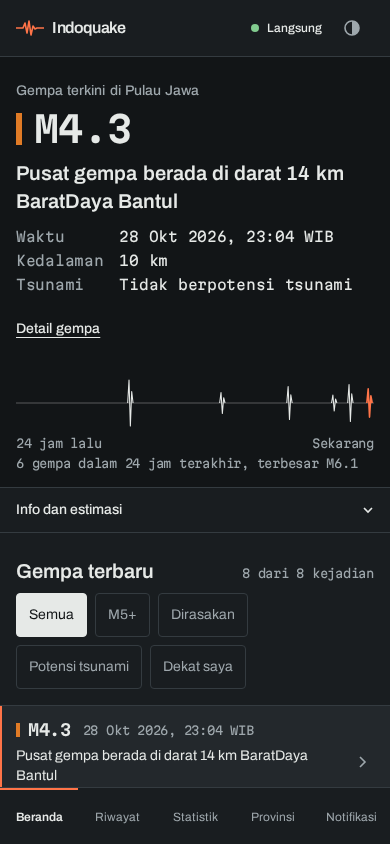
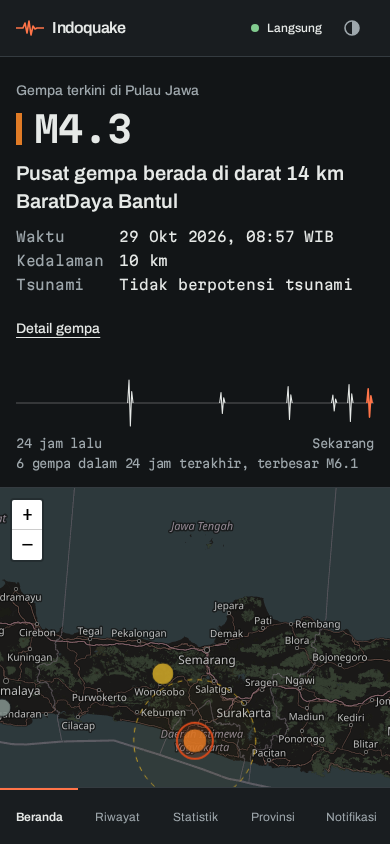
fix(web): phones show the map right after the latest quake and above the list; loading skeleton holds the latest-quake height (CLS <= 0.05) and the first list load no longer scrolls the page; e2e E16 at 390x844

diff --git a/apps/web/src/components/dashboard.tsx b/apps/web/src/components/dashboard.tsx
@@ -331,19 +331,25 @@ export function Dashboard({
     pulseKey,
   };
 
+  // Phones read the latest quake, then the map, then the list. Desktop: latest quake and list in the
+  // left column, the map sticky on the right across both rows.
   return (
-    <div className="mx-auto w-full max-w-screen-2xl lg:grid lg:grid-cols-[minmax(0,32rem)_minmax(0,1fr)]">
+    <div className="mx-auto w-full max-w-screen-2xl lg:grid lg:grid-cols-[minmax(0,32rem)_minmax(0,1fr)] lg:grid-rows-[auto_1fr]">
       <p aria-live="polite" role="status" className="sr-only" data-testid="live-announcer">
         {announcement}
       </p>
       <EventToasts items={toasts} onSelect={selectFromMap} />
-      <div className="min-w-0 lg:border-r lg:border-border">
+      <div className="min-w-0 lg:col-start-1 lg:row-start-1 lg:border-r lg:border-border">
         {listError && events.length === 0 && (
           <div className="px-4 pt-6">
             <ErrorState onRetry={refetch} />
           </div>
         )}
-        <LatestQuake event={events[0] ?? null} events={events} />
+        <LatestQuake
+          event={events[0] ?? null}
+          events={events}
+          loading={dataError && events.length === 0 && !listError}
+        />
         {tsunamiInfo?.status === "potential" && selectedEvent && (
           <div role="alert" className="mx-4 mb-4 border-l-2 border-danger bg-danger-soft px-4 py-3">
             <p className="text-sm font-semibold text-danger">Berpotensi tsunami, status resmi BMKG</p>
@@ -352,6 +358,15 @@ export function Dashboard({
             </p>
           </div>
         )}
+      </div>
+      <div
+        aria-label="Peta gempa"
+        role="region"
+        className="relative h-[60vh] min-h-80 border-t border-border lg:sticky lg:top-0 lg:col-start-2 lg:row-span-2 lg:row-start-1 lg:h-[calc(100dvh-3.5rem)] lg:self-start lg:border-t-0"
+      >
+        {mapAllowed ? <EarthquakeMap {...mapProps} /> : <MapPlaceholder />}
+      </div>
+      <div className="min-w-0 lg:col-start-1 lg:row-start-2 lg:border-r lg:border-border">
         <FeedPanel
           events={filteredEvents}
           totalCount={events.length}
@@ -396,13 +411,6 @@ export function Dashboard({
           }
           tsunamiPanel={<TsunamiPanel event={selectedEvent} coastDistanceKm={coastDistanceKm} />}
         />
-      </div>
-      <div
-        aria-label="Peta gempa"
-        role="region"
-        className="relative h-[60vh] min-h-80 border-t border-border lg:sticky lg:top-0 lg:h-[calc(100dvh-3.5rem)] lg:border-t-0"
-      >
-        {mapAllowed ? <EarthquakeMap {...mapProps} /> : <MapPlaceholder />}
       </div>
     </div>
   );

diff --git a/apps/web/src/components/latest-quake.tsx b/apps/web/src/components/latest-quake.tsx
@@ -4,8 +4,19 @@ import { formatWibDateTime } from "@/lib/wib";
 import { MagBadge } from "./mag-badge";
 import { Seismogram } from "./seismogram";
 
-/** The newest quake as plain text: it is the first thing read and the LCP element, never the map. */
-export function LatestQuake({ event, events }: { event: EarthquakeEvent | null; events: EarthquakeEvent[] }) {
+/**
+ * The newest quake as plain text: it is the first thing read and the LCP element, never the map.
+ * `loading` (the list still comes from the API) holds the filled height, so the map below does not move.
+ */
+export function LatestQuake({
+  event,
+  events,
+  loading = false,
+}: {
+  event: EarthquakeEvent | null;
+  events: EarthquakeEvent[];
+  loading?: boolean;
+}) {
   return (
     <section aria-labelledby="gempa-terkini" className="px-4 pt-6 pb-4">
       <h1 id="gempa-terkini" className="text-sm font-medium text-muted">
@@ -33,9 +44,43 @@ export function LatestQuake({ event, events }: { event: EarthquakeEvent | null; 
           </Link>
           <Seismogram events={events} />
         </div>
+      ) : loading ? (
+        <LatestQuakeSkeleton />
       ) : (
         <p className="mt-2 min-h-40 text-xl text-muted">Belum ada gempa tercatat.</p>
       )}
     </section>
+  );
+}
+
+/** One bar per line of the filled state, each on the same line height, so the swap does not shift. */
+function Bar({ className = "", width }: { className?: string; width: string }) {
+  return (
+    <span className={`block ${className}`}>
+      <span className={`inline-block rounded-sm bg-surface-2 ${width}`}>&nbsp;</span>
+    </span>
+  );
+}
+
+function LatestQuakeSkeleton() {
+  return (
+    <div className="mt-2" aria-hidden="true" data-testid="latest-quake-loading">
+      <Bar className="text-4xl" width="w-24" />
+      <span className="mt-2 block text-xl leading-snug">
+        <Bar width="w-full" />
+        <Bar width="w-1/2" />
+      </span>
+      <span className="mt-3 grid gap-y-1 text-sm">
+        <Bar width="w-1/2" />
+        <Bar width="w-1/3" />
+        <Bar width="w-2/3" />
+      </span>
+      <span className="mt-3 block min-h-11" />
+      <span className="mt-6 block h-14 rounded-sm bg-surface-2" />
+      <span className="mt-1 grid gap-y-1 text-xs">
+        <Bar width="w-full" />
+        <Bar width="w-1/2" />
+      </span>
+    </div>
   );
 }

diff --git a/apps/e2e/tests/mocked/home-mobile.spec.ts b/apps/e2e/tests/mocked/home-mobile.spec.ts
@@ -1,0 +1,30 @@
+import { expect, test } from "@playwright/test";
+import { layoutShift, recordLayoutShift } from "../../support/layout-shift";
+import { blockMapTiles, installStreamStub, mockApi } from "../../support/mock";
+
+test.beforeEach(async ({ page }) => {
+  await page.setViewportSize({ width: 390, height: 844 });
+  await recordLayoutShift(page);
+  await blockMapTiles(page);
+  await installStreamStub(page);
+  await mockApi(page);
+});
+
+test("E16 on a 390x844 phone the map starts on the first screen, above the quake list", async ({ page }) => {
+  await page.goto("/");
+  await expect(page.locator("[data-event-key]").first()).toBeVisible();
+  const map = await page.getByRole("region", { name: "Peta gempa" }).boundingBox();
+  const listHeading = await page.getByRole("heading", { name: "Gempa terbaru" }).boundingBox();
+  expect(map!.y).toBeLessThan(844);
+  expect(map!.y + map!.height).toBeLessThanOrEqual(listHeading!.y);
+  // Selecting the newest quake after the list loads must not scroll the page down to the list.
+  expect(await page.evaluate(() => window.scrollY)).toBe(0);
+});
+
+test("E16 on a 390x844 phone loading the list and the map shifts the layout by at most 0.05", async ({ page }) => {
+  await page.goto("/");
+  await expect(page.locator("[data-event-key]").first()).toBeVisible();
+  await expect(page.locator(".leaflet-container")).toBeVisible();
+  await expect(page.getByTestId("latest-quake-loading")).toHaveCount(0);
+  expect(await layoutShift(page)).toBeLessThanOrEqual(0.05);
+});

diff --git a/apps/e2e/support/layout-shift.ts b/apps/e2e/support/layout-shift.ts
@@ -1,0 +1,21 @@
+import type { Page } from "@playwright/test";
+
+/**
+ * Cumulative layout shift as the browser reports it (layout-shift entries without recent input).
+ * Call before page.goto; read with `layoutShift(page)`.
+ */
+export async function recordLayoutShift(page: Page): Promise<void> {
+  await page.addInitScript(() => {
+    const store = window as unknown as { __iqLayoutShift: number };
+    store.__iqLayoutShift = 0;
+    new PerformanceObserver((list) => {
+      for (const entry of list.getEntries() as unknown as { value: number; hadRecentInput: boolean }[]) {
+        if (!entry.hadRecentInput) store.__iqLayoutShift += entry.value;
+      }
+    }).observe({ type: "layout-shift", buffered: true });
+  });
+}
+
+export async function layoutShift(page: Page): Promise<number> {
+  return page.evaluate(() => (window as unknown as { __iqLayoutShift: number }).__iqLayoutShift);
+}

diff --git a/apps/web/src/components/feed-panel.tsx b/apps/web/src/components/feed-panel.tsx
@@ -72,12 +72,14 @@ export function FeedPanel({
   const shownKey = useRef(selectedKey);
 
   // Bring a row into view only when the selection changes (e.g. a map click), never on
-  // first render or when live events arrive, so the page does not jump.
+  // first render, when the list first loads from the API (null to the newest quake) or when
+  // live events arrive, so the page does not jump.
   useEffect(() => {
     if (selectedKey === shownKey.current) return;
+    const firstSelection = shownKey.current === null;
     shownKey.current = selectedKey;
     const list = listRef.current;
-    if (!list || !selectedKey) return;
+    if (firstSelection || !list || !selectedKey) return;
     const element = list.querySelector(`[data-event-key="${CSS.escape(selectedKey)}"]`);
     element?.scrollIntoView({ block: "nearest" });
   }, [selectedKey]);
